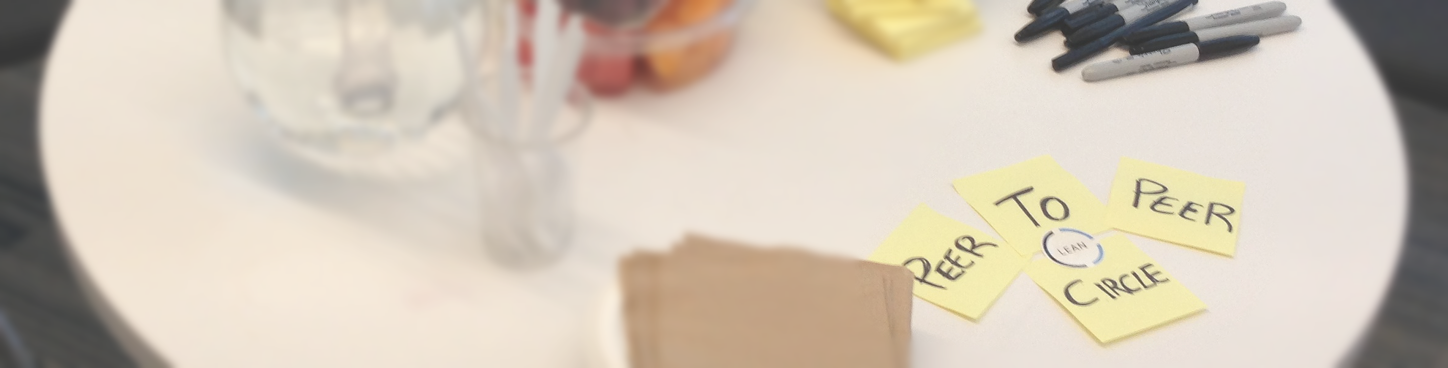
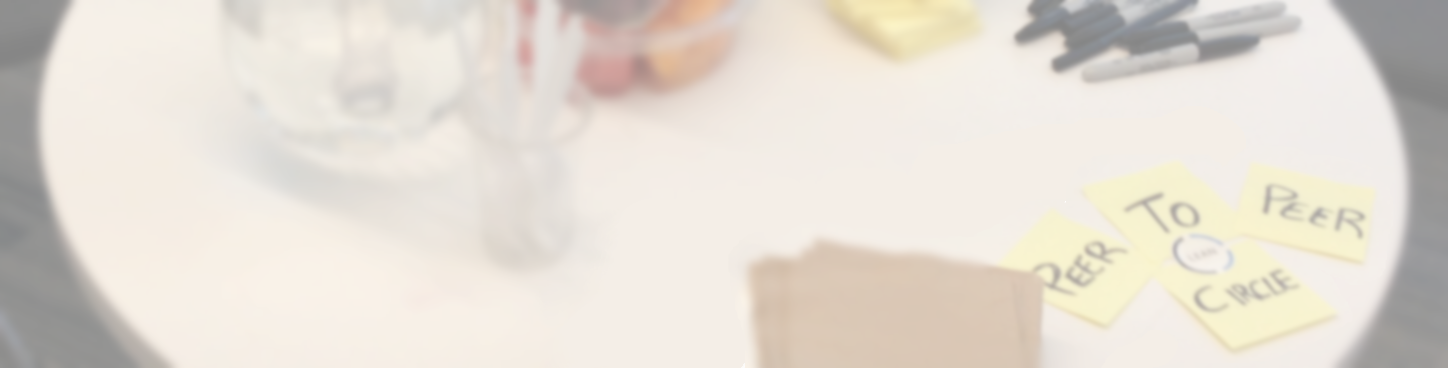
Look and feel and copy fixes prepping for launch   * fix a few typos in the copy   * add header image   * space a bit value prop lines   * add images for 3 learn more sections

diff --git a/app/assets/stylesheets/custom.sass b/app/assets/stylesheets/custom.sass
@@ -144,23 +144,22 @@ form
 
 .jumbotron
   @extend %center
-  /*
-   *background: $gray-lighter url('jumbotron-bg.png');
-   *background-repeat: no-repeat;
-   *background-size: cover;
-   *background-position: 50% 50%;
+  background: $gray-lighter url('jumbotron-bg.png')
+  background-repeat: no-repeat
+  background-size: cover
+  background-position: 50% 50%
 
   @media (max-width: $screen-xs-max)
     padding: $jumbotron-padding 0
-  
+
   h1
     font-size: $jumbotron-h1-font-size
     line-height: ceil($jumbotron-h1-font-size * 1.33333)
     font-weight: 300
     -webkit-margin-before: 0
-  
+
   p
-    font-size: $font-size-base
+    font-size: $font-size-base * 1.2
     line-height: $line-height-base
 
   small
